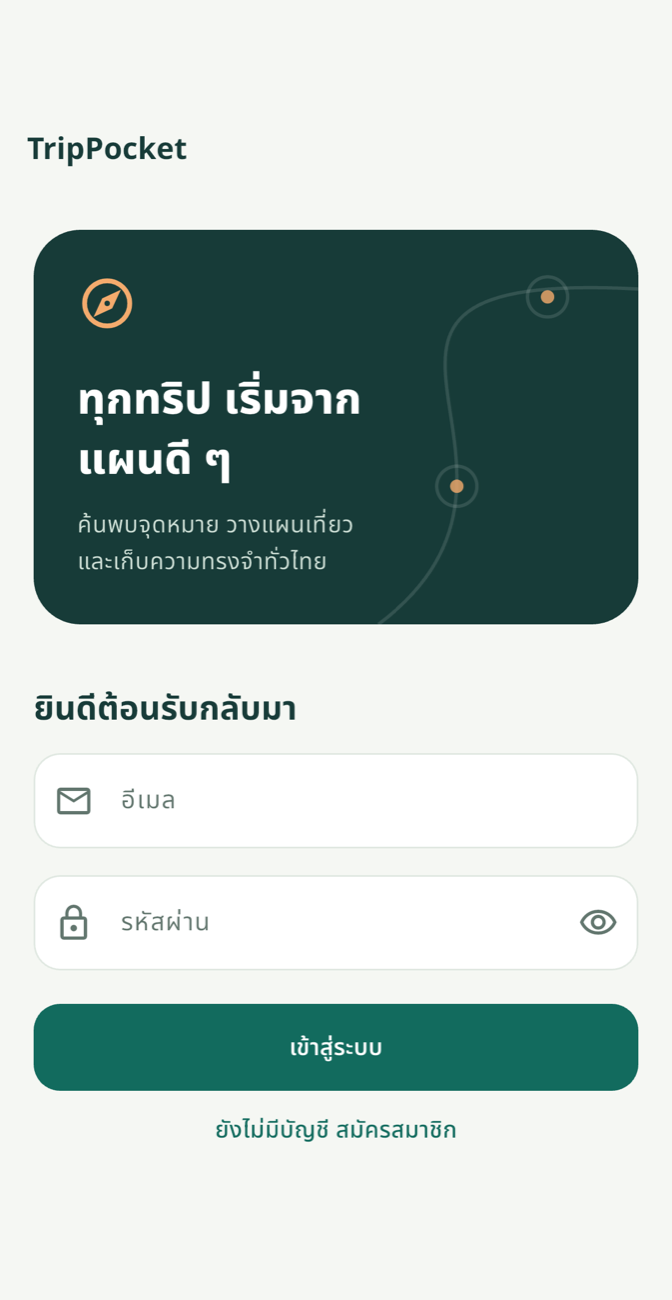
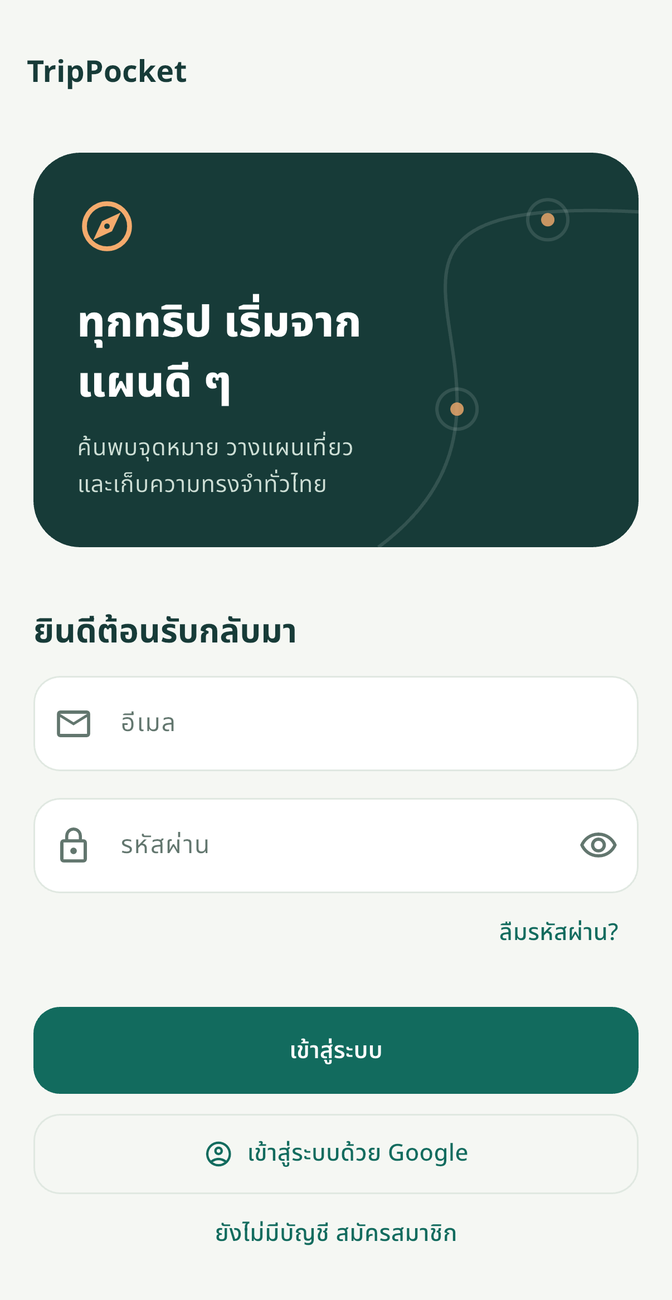
docs: update slides for account, destination pin and trip completion

diff --git a/docs/slides/TripPocket-slides.html b/docs/slides/TripPocket-slides.html
@@ -100,7 +100,7 @@ section{position:relative;width:1920px;height:1080px}aside{display:none}ul{paddi
 <div style="flex:1;display:flex;flex-direction:column;gap:24px;background:#2D4E42;border-radius:24px;padding:40px">
 <div style="width:96px;height:96px;flex:none;display:flex;align-items:center;justify-content:center;background:#1F3A30;border-radius:20px"><svg xmlns="http://www.w3.org/2000/svg" style="width:56px;height:56px" viewBox="0 0 24 24" width="24" height="24" fill="none" stroke="#9FE0BC" stroke-width="1.8" stroke-linecap="round" stroke-linejoin="round" aria-label="บัญชีและทริป"><circle cx="9" cy="8" r="3.5"/><path d="M3 20c0-4 3-6 6-6s6 2 6 6"/><path d="M16 5a3.5 3.5 0 0 1 0 6"/><path d="M18 14c2 1 3 3 3 6"/></svg></div>
 <h3 style="font-size:40px;font-weight:700">บัญชีและทริป</h3>
-<p style="font-size:30px;line-height:1.5;color:#CFE3D8">สมัครด้วยอีเมล เพิ่ม แก้ไข ลบทริปของตัวเอง</p>
+<p style="font-size:30px;line-height:1.5;color:#CFE3D8">เข้าด้วยอีเมลหรือ Google กู้รหัสผ่านได้ ค้นหาและจบทริปได้</p>
 </div>
 <div style="flex:1;display:flex;flex-direction:column;gap:24px;background:#2D4E42;border-radius:24px;padding:40px">
 <div style="width:96px;height:96px;flex:none;display:flex;align-items:center;justify-content:center;background:#1F3A30;border-radius:20px"><svg xmlns="http://www.w3.org/2000/svg" style="width:56px;height:56px" viewBox="0 0 24 24" width="24" height="24" fill="none" stroke="#9FE0BC" stroke-width="1.8" stroke-linecap="round" stroke-linejoin="round" aria-label="กิจกรรมและงบ"><rect x="3" y="6" width="18" height="13" rx="3"/><path d="M3 10h18"/></svg></div>
@@ -110,7 +110,7 @@ section{position:relative;width:1920px;height:1080px}aside{display:none}ul{paddi
 <div style="flex:1;display:flex;flex-direction:column;gap:24px;background:#2D4E42;border-radius:24px;padding:40px">
 <div style="width:96px;height:96px;flex:none;display:flex;align-items:center;justify-content:center;background:#1F3A30;border-radius:20px"><svg xmlns="http://www.w3.org/2000/svg" style="width:56px;height:56px" viewBox="0 0 24 24" width="24" height="24" fill="none" stroke="#9FE0BC" stroke-width="1.8" stroke-linecap="round" stroke-linejoin="round" aria-label="แผนที่และสถานที่"><path d="M12 21s7-6.2 7-11a7 7 0 1 0-14 0c0 4.8 7 11 7 11z"/><circle cx="12" cy="10" r="2.5"/></svg></div>
 <h3 style="font-size:40px;font-weight:700">แผนที่และสถานที่</h3>
-<p style="font-size:30px;line-height:1.5;color:#CFE3D8">เลือกหมุดบนแผนที่ ค้นหาสถานที่ทั่วไทย 77 จังหวัด</p>
+<p style="font-size:30px;line-height:1.5;color:#CFE3D8">ปักหมุดจุดหมายหลัก ค้นหาสถานที่ทั่วไทย 77 จังหวัด</p>
 </div>
 <div style="flex:1;display:flex;flex-direction:column;gap:24px;background:#2D4E42;border-radius:24px;padding:40px">
 <div style="width:96px;height:96px;flex:none;display:flex;align-items:center;justify-content:center;background:#1F3A30;border-radius:20px"><svg xmlns="http://www.w3.org/2000/svg" style="width:56px;height:56px" viewBox="0 0 24 24" width="24" height="24" fill="none" stroke="#9FE0BC" stroke-width="1.8" stroke-linecap="round" stroke-linejoin="round" aria-label="เช็กลิสต์และแชร์"><rect x="4" y="4" width="16" height="16" rx="3"/><path d="M8 12l3 3 5-6"/></svg></div>
@@ -118,14 +118,14 @@ section{position:relative;width:1920px;height:1080px}aside{display:none}ul{paddi
 <p style="font-size:30px;line-height:1.5;color:#CFE3D8">ติ๊กของที่เตรียมแล้ว แชร์แผนหลังดูตัวอย่าง</p>
 </div>
 </div>
-<aside>ทั้งสี่ส่วนครอบคลุมทุกขั้นตอน ตั้งแต่สร้างทริปจนถึงแชร์แผนให้เพื่อน</aside>
+<aside>ทั้งสี่ส่วนครอบคลุมทุกขั้นตอน ตั้งแต่สร้างทริป แชร์แผนให้เพื่อน จนถึงจบทริป ซึ่งยังเปิดดูและแก้รายละเอียดย้อนหลังได้</aside>
 </section>
 </div>
 <div class="frame"><section id="workflow" data-transition="push" style="background:#243F35;color:#F5F2EA;font-family:'Noto Sans Thai', sans-serif;padding:128px;display:flex;flex-direction:column;gap:48px">
 <svg xmlns="http://www.w3.org/2000/svg" style="position:absolute;left:1732px;top:44px;width:72px;height:72px" viewBox="0 0 512 512" width="512" height="512" aria-label="TripPocket logo"><rect width="512" height="512" rx="112" fill="#1A3A38"/><circle cx="256" cy="256" r="150" fill="none" stroke="#F4A261" stroke-width="36"/><path d="M340 172 L288 288 L172 340 L224 224 Z" fill="#F4A261"/><circle cx="256" cy="256" r="24" fill="#1A3A38"/></svg>
 <div style="display:flex;flex-direction:column;gap:12px">
 <p style="font-size:32px;font-weight:600;color:#9FE0BC">Main Workflow</p>
-<h2 style="font-size:72px;font-weight:700;line-height:1.3">จากสมัครใช้งานถึงแชร์แผนใน 6 ขั้นตอน</h2>
+<h2 style="font-size:72px;font-weight:700;line-height:1.3">จากสมัครใช้งานถึงจบทริปใน 7 ขั้นตอน</h2>
 </div>
 <div style="display:flex;gap:0;flex:1;align-items:center">
 <div style="flex:1;display:flex;flex-direction:column;gap:24px">
@@ -136,7 +136,7 @@ section{position:relative;width:1920px;height:1080px}aside{display:none}ul{paddi
 <div style="flex:1;height:4px;background:#4E7A68"></div>
 </div>
 <h3 style="font-size:36px;font-weight:700">เข้าสู่ระบบ</h3>
-<p style="font-size:26px;line-height:1.5;color:#CFE3D8">สมัครหรือล็อกอิน<br>ด้วยอีเมล</p>
+<p style="font-size:26px;line-height:1.5;color:#CFE3D8">ล็อกอินด้วยอีเมล<br>หรือ Google</p>
 </div>
 <div style="flex:1;display:flex;flex-direction:column;gap:24px">
 <div style="display:flex;align-items:center">
@@ -146,7 +146,7 @@ section{position:relative;width:1920px;height:1080px}aside{display:none}ul{paddi
 <div style="flex:1;height:4px;background:#4E7A68"></div>
 </div>
 <h3 style="font-size:36px;font-weight:700">สร้างทริป</h3>
-<p style="font-size:26px;line-height:1.5;color:#CFE3D8">ตั้งชื่อ จุดหมาย<br>วันที่ และงบ</p>
+<p style="font-size:26px;line-height:1.5;color:#CFE3D8">ตั้งชื่อ ปักหมุด<br>วันที่ และงบ</p>
 </div>
 <div style="flex:1;display:flex;flex-direction:column;gap:24px">
 <div style="display:flex;align-items:center">
@@ -183,10 +183,20 @@ section{position:relative;width:1920px;height:1080px}aside{display:none}ul{paddi
 <div style="width:84px;height:84px;flex:none;display:flex;align-items:center;justify-content:center;background:#9FE0BC;border-radius:50%">
 <p style="font-size:40px;font-weight:700;color:#243F35;text-align:center">6</p>
 </div>
-<div style="flex:1"></div>
+<div style="flex:1;height:4px;background:#4E7A68"></div>
 </div>
 <h3 style="font-size:36px;font-weight:700">แชร์แผน</h3>
 <p style="font-size:26px;line-height:1.5;color:#CFE3D8">ดูตัวอย่าง<br>แล้วส่งข้อความ</p>
+</div>
+<div style="flex:1;display:flex;flex-direction:column;gap:24px">
+<div style="display:flex;align-items:center">
+<div style="width:84px;height:84px;flex:none;display:flex;align-items:center;justify-content:center;background:#9FE0BC;border-radius:50%">
+<p style="font-size:40px;font-weight:700;color:#243F35;text-align:center">7</p>
+</div>
+<div style="flex:1"></div>
+</div>
+<h3 style="font-size:36px;font-weight:700">จบทริป</h3>
+<p style="font-size:26px;line-height:1.5;color:#CFE3D8">ย้ายไปหมวด<br>จบทริปแล้ว</p>
 </div>
 </div>
 <aside>ขั้นตอนนี้คือลำดับเดียวกับที่จะสาธิตในสไลด์ถัดไป ทริปและกิจกรรมเก็บบนคลาวด์ ส่วนเช็กลิสต์เก็บในเครื่อง</aside>
@@ -200,7 +210,7 @@ section{position:relative;width:1920px;height:1080px}aside{display:none}ul{paddi
 <p style="font-size:40px;color:#CFE3D8;line-height:1.4">ตัวอย่าง: วางแผนทริปเที่ยวเชียงใหม่<br>งบ 3,000 บาท</p>
 </div>
 <img src="images/home.png" alt="หน้าเข้าสู่ระบบของ TripPocket" style="height:800px;width:414px;object-fit:contain;border-radius:40px">
-<aside>เปิดแอปสาธิตสด ทำตาม 6 ขั้นตอนจากสไลด์ก่อนหน้า และอธิบายว่าแต่ละขั้นแอปทำอะไร รูปในสไลด์ถัดไปใช้สำรองหากเปิดแอปไม่ได้</aside>
+<aside>เปิดแอปสาธิตสด ทำตาม 7 ขั้นตอนจากสไลด์ก่อนหน้า และอธิบายว่าแต่ละขั้นแอปทำอะไร รูปในสไลด์ถัดไปใช้สำรองหากเปิดแอปไม่ได้</aside>
 </section>
 </div>
 <div class="frame"><section id="gallery" data-transition="push" style="background:#243F35;color:#F5F2EA;font-family:'Noto Sans Thai', sans-serif;padding:64px 128px;display:flex;flex-direction:column;gap:28px">
@@ -249,7 +259,7 @@ section{position:relative;width:1920px;height:1080px}aside{display:none}ul{paddi
 <div style="width:92px;height:92px;flex:none;display:flex;align-items:center;justify-content:center;background:#1F3A30;border-radius:20px"><svg xmlns="http://www.w3.org/2000/svg" style="width:56px;height:56px" viewBox="0 0 24 24" width="24" height="24" fill="#FFCA28" aria-label="Firebase"><path d="M19.455 8.369c-.538-.748-1.778-2.285-3.681-4.569-.826-.991-1.535-1.832-1.884-2.245a146 146 0 0 0-.488-.576l-.207-.245-.113-.133-.022-.032-.01-.005L12.57 0l-.609.488c-1.555 1.246-2.828 2.851-3.681 4.64-.523 1.064-.864 2.105-1.043 3.176-.047.241-.088.489-.121.738-.209-.017-.421-.028-.632-.033-.018-.001-.035-.002-.059-.003a7.46 7.46 0 0 0-2.28.274l-.317.089-.163.286c-.765 1.342-1.198 2.869-1.252 4.416-.07 2.01.477 3.954 1.583 5.625 1.082 1.633 2.61 2.882 4.42 3.611l.236.095.071.025.003-.001a9.59 9.59 0 0 0 2.941.568q.171.006.342.006c1.273 0 2.513-.249 3.69-.742l.008.004.313-.145a9.63 9.63 0 0 0 3.927-3.335c1.01-1.49 1.577-3.234 1.641-5.042.075-2.161-.643-4.304-2.133-6.371m-7.083 6.695c.328 1.244.264 2.44-.191 3.558-1.135-1.12-1.967-2.352-2.475-3.665-.543-1.404-.87-2.74-.974-3.975.48.157.922.366 1.315.622 1.132.737 1.914 1.902 2.325 3.461zm.207 6.022c.482.368.99.712 1.513 1.028-.771.21-1.565.302-2.369.273a8 8 0 0 1-.373-.022c.458-.394.869-.823 1.228-1.279zm1.347-6.431c-.516-1.957-1.527-3.437-3.002-4.398-.647-.421-1.385-.741-2.194-.95.011-.134.026-.268.043-.4.014-.113.03-.216.046-.313.133-.689.332-1.37.589-2.025.099-.25.206-.499.321-.74l.004-.008c.177-.358.376-.719.61-1.105l.092-.152-.003-.001c.544-.851 1.197-1.627 1.942-2.311l.288.341c.672.796 1.304 1.548 1.878 2.237 1.291 1.549 2.966 3.583 3.612 4.48 1.277 1.771 1.893 3.579 1.83 5.375-.049 1.395-.461 2.755-1.195 3.933-.694 1.116-1.661 2.05-2.8 2.708-.636-.318-1.559-.839-2.539-1.599.79-1.575.952-3.28.479-5.072zm-2.575 5.397c-.725.939-1.587 1.55-2.09 1.856-.081-.029-.163-.06-.243-.093l-.065-.026c-1.49-.616-2.747-1.656-3.635-3.01-.907-1.384-1.356-2.993-1.298-4.653.041-1.19.338-2.327.882-3.379.316-.07.638-.114.96-.131l.084-.002c.162-.003.324-.003.478 0 .227.011.454.035.677.07.073 1.513.445 3.145 1.105 4.852.637 1.644 1.694 3.162 3.144 4.515z"/></svg></div>
 <div style="flex:1;display:flex;flex-direction:column;gap:6px">
 <h3 style="font-size:34px;font-weight:700">Firebase Auth</h3>
-<p style="font-size:26px;line-height:1.4;color:#CFE3D8">สมัครและเข้าสู่ระบบด้วยอีเมล</p>
+<p style="font-size:26px;line-height:1.4;color:#CFE3D8">เข้าสู่ระบบด้วยอีเมลหรือ Google กู้และเปลี่ยนรหัสผ่าน</p>
 </div>
 </div>
 <div style="display:flex;align-items:center;gap:24px;background:#2D4E42;border-radius:24px;padding:28px">
